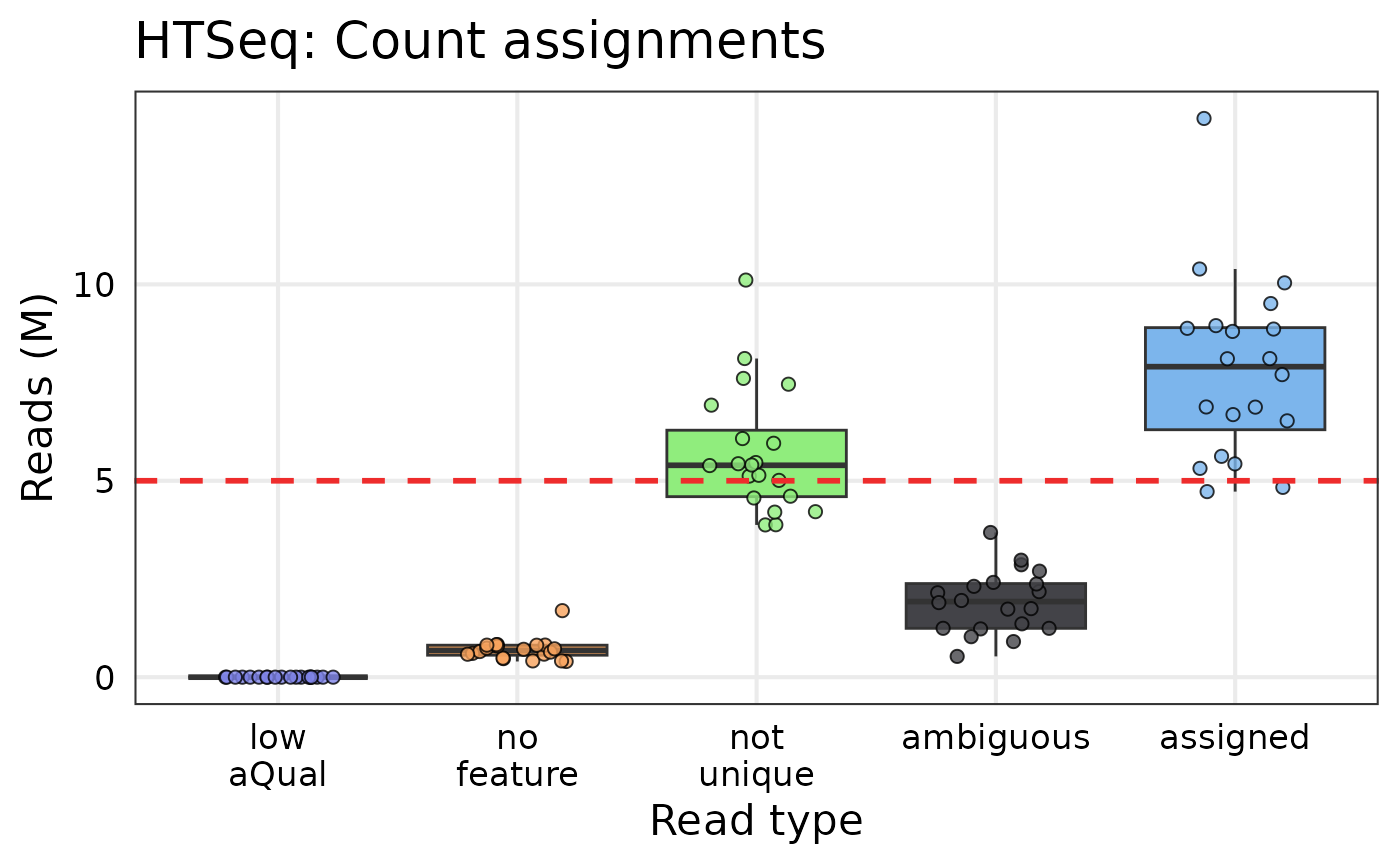
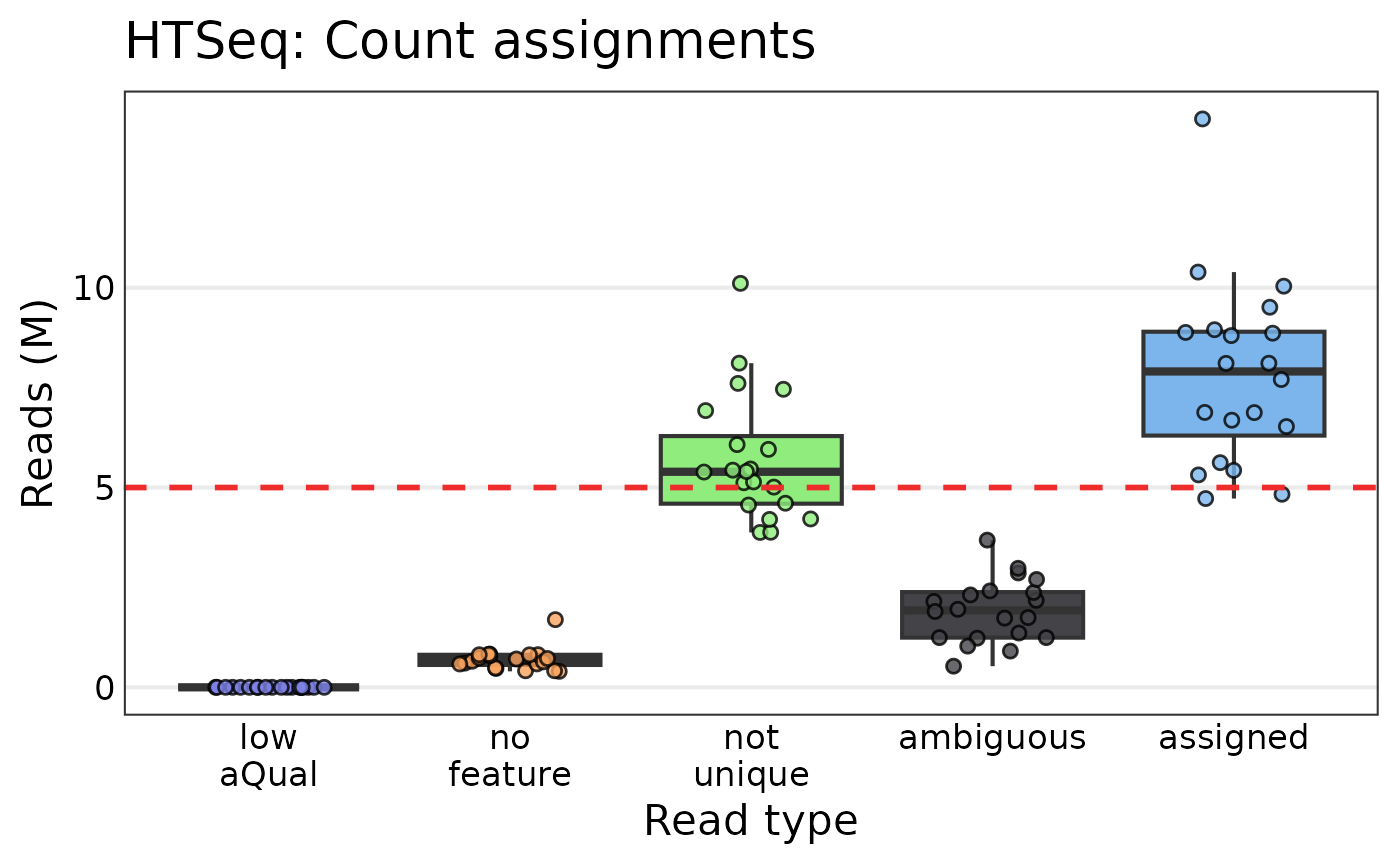
Deploying to gh-pages from @ travis-m-blimkie/tRavis@55f0370cd2f38c7c3973833efeeda2f34d24e0dc 🚀

diff --git a/articles/tRavis.html b/articles/tRavis.html
@@ -20,7 +20,7 @@
 
     <a class="navbar-brand me-2" href="../index.html">tRavis</a>
 
-    <small class="nav-text text-muted me-auto" data-bs-toggle="tooltip" data-bs-placement="bottom" title="">1.7.8</small>
+    <small class="nav-text text-muted me-auto" data-bs-toggle="tooltip" data-bs-placement="bottom" title="">1.7.11</small>
 
 
     <button class="navbar-toggler" type="button" data-bs-toggle="collapse" data-bs-target="#navbar" aria-controls="navbar" aria-expanded="false" aria-label="Toggle navigation">
@@ -55,7 +55,7 @@
 Blimkie</h4>
             
       
-      <small class="dont-index">Source: <a href="https://github.com/travis-m-blimkie/tRavis/blob/v1.7.8/vignettes/tRavis.Rmd" class="external-link"><code>vignettes/tRavis.Rmd</code></a></small>
+      <small class="dont-index">Source: <a href="https://github.com/travis-m-blimkie/tRavis/blob/master/vignettes/tRavis.Rmd" class="external-link"><code>vignettes/tRavis.Rmd</code></a></small>
       <div class="d-none name"><code>tRavis.Rmd</code></div>
     </div>
 
@@ -63,7 +63,7 @@ Blimkie</h4>
     
 <div class="sourceCode" id="cb1"><pre class="downlit sourceCode r">
 <code class="sourceCode R"><span><span class="kw"><a href="https://rdrr.io/r/base/library.html" class="external-link">library</a></span><span class="op">(</span><span class="va"><a href="https://travis-m-blimkie.github.io/tRavis/">tRavis</a></span><span class="op">)</span></span>
-<span><span class="co">#&gt; Thanks for using tRavis v1.7.8! If you encounter any bugs</span></span>
+<span><span class="co">#&gt; Thanks for using tRavis v1.7.11! If you encounter any bugs</span></span>
 <span><span class="co">#&gt; or problems, please submit an issue at the Github page:</span></span>
 <span><span class="co">#&gt; https://github.com/travis-m-blimkie/tRavis/issues</span></span></code></pre></div>
 <div class="section level2">
@@ -496,9 +496,9 @@ middle of a word. Useful for trimming long axis labels in a plot.</p>
 <div class="section level2">
 <h2 id="session-information">Session information<a class="anchor" aria-label="anchor" href="#session-information"></a>
 </h2>
-<pre><code><span><span class="co">#&gt; R version 4.5.0 (2025-04-11)</span></span>
+<pre><code><span><span class="co">#&gt; R version 4.5.1 (2025-06-13)</span></span>
 <span><span class="co">#&gt; Platform: x86_64-pc-linux-gnu</span></span>
-<span><span class="co">#&gt; Running under: Ubuntu 24.04.2 LTS</span></span>
+<span><span class="co">#&gt; Running under: Ubuntu 24.04.3 LTS</span></span>
 <span><span class="co">#&gt; </span></span>
 <span><span class="co">#&gt; Matrix products: default</span></span>
 <span><span class="co">#&gt; BLAS:   /usr/lib/x86_64-linux-gnu/openblas-pthread/libblas.so.3 </span></span>
@@ -517,52 +517,53 @@ middle of a word. Useful for trimming long axis labels in a plot.</p>
 <span><span class="co">#&gt; [1] stats     graphics  grDevices utils     datasets  methods   base     </span></span>
 <span><span class="co">#&gt; </span></span>
 <span><span class="co">#&gt; other attached packages:</span></span>
-<span><span class="co">#&gt; [1] ggplot2_3.5.2 tRavis_1.7.8 </span></span>
+<span><span class="co">#&gt; [1] ggplot2_4.0.0 tRavis_1.7.11</span></span>
 <span><span class="co">#&gt; </span></span>
 <span><span class="co">#&gt; loaded via a namespace (and not attached):</span></span>
 <span><span class="co">#&gt;  [1] SummarizedExperiment_1.38.1 gtable_0.3.6               </span></span>
-<span><span class="co">#&gt;  [3] xfun_0.52                   bslib_0.9.0                </span></span>
-<span><span class="co">#&gt;  [5] ggrepel_0.9.6               lattice_0.22-6             </span></span>
+<span><span class="co">#&gt;  [3] xfun_0.53                   bslib_0.9.0                </span></span>
+<span><span class="co">#&gt;  [5] ggrepel_0.9.6               lattice_0.22-7             </span></span>
 <span><span class="co">#&gt;  [7] Biobase_2.68.0              tzdb_0.5.0                 </span></span>
-<span><span class="co">#&gt;  [9] vctrs_0.6.5                 tools_4.5.0                </span></span>
-<span><span class="co">#&gt; [11] generics_0.1.4              stats4_4.5.0               </span></span>
-<span><span class="co">#&gt; [13] parallel_4.5.0              tibble_3.3.0               </span></span>
+<span><span class="co">#&gt;  [9] vctrs_0.6.5                 tools_4.5.1                </span></span>
+<span><span class="co">#&gt; [11] generics_0.1.4              stats4_4.5.1               </span></span>
+<span><span class="co">#&gt; [13] parallel_4.5.1              tibble_3.3.0               </span></span>
 <span><span class="co">#&gt; [15] pkgconfig_2.0.3             Matrix_1.7-3               </span></span>
-<span><span class="co">#&gt; [17] RColorBrewer_1.1-3          desc_1.4.3                 </span></span>
-<span><span class="co">#&gt; [19] S4Vectors_0.46.0            GenomeInfoDbData_1.2.14    </span></span>
-<span><span class="co">#&gt; [21] lifecycle_1.0.4             compiler_4.5.0             </span></span>
-<span><span class="co">#&gt; [23] farver_2.1.2                stringr_1.5.1              </span></span>
-<span><span class="co">#&gt; [25] textshaping_1.0.1           janitor_2.2.1              </span></span>
-<span><span class="co">#&gt; [27] DESeq2_1.48.1               codetools_0.2-20           </span></span>
-<span><span class="co">#&gt; [29] snakecase_0.11.1            GenomeInfoDb_1.44.0        </span></span>
-<span><span class="co">#&gt; [31] htmltools_0.5.8.1           sass_0.4.10                </span></span>
-<span><span class="co">#&gt; [33] yaml_2.3.10                 pillar_1.10.2              </span></span>
-<span><span class="co">#&gt; [35] pkgdown_2.1.3               crayon_1.5.3               </span></span>
-<span><span class="co">#&gt; [37] jquerylib_0.1.4             tidyr_1.3.1                </span></span>
-<span><span class="co">#&gt; [39] BiocParallel_1.42.1         DelayedArray_0.34.1        </span></span>
-<span><span class="co">#&gt; [41] cachem_1.1.0                abind_1.4-8                </span></span>
-<span><span class="co">#&gt; [43] locfit_1.5-9.12             tidyselect_1.2.1           </span></span>
-<span><span class="co">#&gt; [45] digest_0.6.37               stringi_1.8.7              </span></span>
-<span><span class="co">#&gt; [47] dplyr_1.1.4                 purrr_1.0.4                </span></span>
-<span><span class="co">#&gt; [49] labeling_0.4.3              forcats_1.0.0              </span></span>
-<span><span class="co">#&gt; [51] fastmap_1.2.0               grid_4.5.0                 </span></span>
-<span><span class="co">#&gt; [53] SparseArray_1.8.0           cli_3.6.5                  </span></span>
-<span><span class="co">#&gt; [55] magrittr_2.0.3              S4Arrays_1.8.1             </span></span>
-<span><span class="co">#&gt; [57] utf8_1.2.6                  readr_2.1.5                </span></span>
-<span><span class="co">#&gt; [59] withr_3.0.2                 UCSC.utils_1.4.0           </span></span>
-<span><span class="co">#&gt; [61] scales_1.4.0                bit64_4.6.0-1              </span></span>
-<span><span class="co">#&gt; [63] lubridate_1.9.4             timechange_0.3.0           </span></span>
-<span><span class="co">#&gt; [65] XVector_0.48.0              httr_1.4.7                 </span></span>
-<span><span class="co">#&gt; [67] rmarkdown_2.29              matrixStats_1.5.0          </span></span>
-<span><span class="co">#&gt; [69] bit_4.6.0                   ragg_1.4.0                 </span></span>
-<span><span class="co">#&gt; [71] hms_1.1.3                   evaluate_1.0.3             </span></span>
-<span><span class="co">#&gt; [73] knitr_1.50                  GenomicRanges_1.60.0       </span></span>
-<span><span class="co">#&gt; [75] IRanges_2.42.0              rlang_1.1.6                </span></span>
-<span><span class="co">#&gt; [77] Rcpp_1.0.14                 glue_1.8.0                 </span></span>
-<span><span class="co">#&gt; [79] BiocGenerics_0.54.0         vroom_1.6.5                </span></span>
-<span><span class="co">#&gt; [81] jsonlite_2.0.0              R6_2.6.1                   </span></span>
-<span><span class="co">#&gt; [83] plyr_1.8.9                  MatrixGenerics_1.20.0      </span></span>
-<span><span class="co">#&gt; [85] systemfonts_1.2.3           fs_1.6.6</span></span></code></pre>
+<span><span class="co">#&gt; [17] RColorBrewer_1.1-3          S7_0.2.0                   </span></span>
+<span><span class="co">#&gt; [19] desc_1.4.3                  S4Vectors_0.46.0           </span></span>
+<span><span class="co">#&gt; [21] GenomeInfoDbData_1.2.14     lifecycle_1.0.4            </span></span>
+<span><span class="co">#&gt; [23] compiler_4.5.1              farver_2.1.2               </span></span>
+<span><span class="co">#&gt; [25] stringr_1.5.2               textshaping_1.0.3          </span></span>
+<span><span class="co">#&gt; [27] janitor_2.2.1               DESeq2_1.48.2              </span></span>
+<span><span class="co">#&gt; [29] codetools_0.2-20            snakecase_0.11.1           </span></span>
+<span><span class="co">#&gt; [31] GenomeInfoDb_1.44.3         htmltools_0.5.8.1          </span></span>
+<span><span class="co">#&gt; [33] sass_0.4.10                 yaml_2.3.10                </span></span>
+<span><span class="co">#&gt; [35] pillar_1.11.1               pkgdown_2.1.3              </span></span>
+<span><span class="co">#&gt; [37] crayon_1.5.3                jquerylib_0.1.4            </span></span>
+<span><span class="co">#&gt; [39] tidyr_1.3.1                 BiocParallel_1.42.2        </span></span>
+<span><span class="co">#&gt; [41] DelayedArray_0.34.1         cachem_1.1.0               </span></span>
+<span><span class="co">#&gt; [43] abind_1.4-8                 locfit_1.5-9.12            </span></span>
+<span><span class="co">#&gt; [45] tidyselect_1.2.1            digest_0.6.37              </span></span>
+<span><span class="co">#&gt; [47] stringi_1.8.7               dplyr_1.1.4                </span></span>
+<span><span class="co">#&gt; [49] purrr_1.1.0                 labeling_0.4.3             </span></span>
+<span><span class="co">#&gt; [51] forcats_1.0.0               fastmap_1.2.0              </span></span>
+<span><span class="co">#&gt; [53] grid_4.5.1                  SparseArray_1.8.1          </span></span>
+<span><span class="co">#&gt; [55] cli_3.6.5                   magrittr_2.0.4             </span></span>
+<span><span class="co">#&gt; [57] S4Arrays_1.8.1              utf8_1.2.6                 </span></span>
+<span><span class="co">#&gt; [59] readr_2.1.5                 withr_3.0.2                </span></span>
+<span><span class="co">#&gt; [61] UCSC.utils_1.4.0            scales_1.4.0               </span></span>
+<span><span class="co">#&gt; [63] bit64_4.6.0-1               lubridate_1.9.4            </span></span>
+<span><span class="co">#&gt; [65] timechange_0.3.0            XVector_0.48.0             </span></span>
+<span><span class="co">#&gt; [67] httr_1.4.7                  rmarkdown_2.29             </span></span>
+<span><span class="co">#&gt; [69] matrixStats_1.5.0           bit_4.6.0                  </span></span>
+<span><span class="co">#&gt; [71] ragg_1.5.0                  hms_1.1.3                  </span></span>
+<span><span class="co">#&gt; [73] evaluate_1.0.5              knitr_1.50                 </span></span>
+<span><span class="co">#&gt; [75] GenomicRanges_1.60.0        IRanges_2.42.0             </span></span>
+<span><span class="co">#&gt; [77] rlang_1.1.6                 Rcpp_1.1.0                 </span></span>
+<span><span class="co">#&gt; [79] glue_1.8.0                  BiocGenerics_0.54.0        </span></span>
+<span><span class="co">#&gt; [81] vroom_1.6.6                 jsonlite_2.0.0             </span></span>
+<span><span class="co">#&gt; [83] R6_2.6.1                    plyr_1.8.9                 </span></span>
+<span><span class="co">#&gt; [85] MatrixGenerics_1.20.0       systemfonts_1.2.3          </span></span>
+<span><span class="co">#&gt; [87] fs_1.6.6</span></span></code></pre>
 </div>
   </main><aside class="col-md-3"><nav id="toc" aria-label="Table of contents"><h2>On this page</h2>
     </nav></aside>

diff --git a/reference/tr_qc_plots.html b/reference/tr_qc_plots.html
@@ -11,7 +11,7 @@ and Phred scores), STAR, and HTSeq. See Details for more information."></head><b
 
     <a class="navbar-brand me-2" href="../index.html">tRavis</a>
 
-    <small class="nav-text text-muted me-auto" data-bs-toggle="tooltip" data-bs-placement="bottom" title="">1.7.8</small>
+    <small class="nav-text text-muted me-auto" data-bs-toggle="tooltip" data-bs-placement="bottom" title="">1.7.11</small>
 
 
     <button class="navbar-toggler" type="button" data-bs-toggle="collapse" data-bs-target="#navbar" aria-controls="navbar" aria-expanded="false" aria-label="Toggle navigation">
@@ -33,7 +33,7 @@ and Phred scores), STAR, and HTSeq. See Details for more information."></head><b
   <main id="main" class="col-md-9"><div class="page-header">
 
       <h1>Create ggplot2 figures from MultiQC results</h1>
-      <small class="dont-index">Source: <a href="https://github.com/travis-m-blimkie/tRavis/blob/v1.7.8/R/tr_qc_plots.R" class="external-link"><code>R/tr_qc_plots.R</code></a></small>
+      <small class="dont-index">Source: <a href="https://github.com/travis-m-blimkie/tRavis/blob/master/R/tr_qc_plots.R" class="external-link"><code>R/tr_qc_plots.R</code></a></small>
       <div class="d-none name"><code>tr_qc_plots.Rd</code></div>
     </div>
 
@@ -56,8 +56,7 @@ and Phred scores), STAR, and HTSeq. See Details for more information.</p>
 <span>  threshold_line_type <span class="op">=</span> <span class="st">"dashed"</span>,</span>
 <span>  threshold_line_size <span class="op">=</span> <span class="fl">1</span>,</span>
 <span>  limits <span class="op">=</span> <span class="cn">NULL</span>,</span>
-<span>  font_size <span class="op">=</span> <span class="fl">18</span>,</span>
-<span>  show_grid <span class="op">=</span> <span class="st">"all"</span></span>
+<span>  font_size <span class="op">=</span> <span class="fl">14</span></span>
 <span><span class="op">)</span></span></code></pre></div>
     </div>
 
@@ -117,11 +116,6 @@ sets automatic limits.</p></dd>
 
 <dt id="arg-font-size">font_size<a class="anchor" aria-label="anchor" href="#arg-font-size"></a></dt>
 <dd><p>Base font size (defaults to 18)</p></dd>
-
-
-<dt id="arg-show-grid">show_grid<a class="anchor" aria-label="anchor" href="#arg-show-grid"></a></dt>
-<dd><p>Should a grid be drawn on all plots? Defaults to "all", can
-also be "x", "y", or "none".</p></dd>
 
 </dl></div>
     <div class="section level2">

diff --git a/authors.html b/authors.html
@@ -7,7 +7,7 @@
 
     <a class="navbar-brand me-2" href="index.html">tRavis</a>
 
-    <small class="nav-text text-muted me-auto" data-bs-toggle="tooltip" data-bs-placement="bottom" title="">1.7.8</small>
+    <small class="nav-text text-muted me-auto" data-bs-toggle="tooltip" data-bs-placement="bottom" title="">1.7.11</small>
 
 
     <button class="navbar-toggler" type="button" data-bs-toggle="collapse" data-bs-target="#navbar" aria-controls="navbar" aria-expanded="false" aria-label="Toggle navigation">
@@ -42,17 +42,17 @@
 
     <div class="section level2">
       <h2 id="citation">Citation</h2>
-      <p><small class="dont-index">Source: <a href="https://github.com/travis-m-blimkie/tRavis/blob/v1.7.8/DESCRIPTION" class="external-link"><code>DESCRIPTION</code></a></small></p>
+      <p><small class="dont-index">Source: <a href="https://github.com/travis-m-blimkie/tRavis/blob/master/DESCRIPTION" class="external-link"><code>DESCRIPTION</code></a></small></p>
 
       <p>Blimkie T (2025).
 <em>tRavis: tRavis: an R package by Travis Blimkie</em>.
-R package version 1.7.8, <a href="https://travis-m-blimkie.github.io/tRavis/">https://travis-m-blimkie.github.io/tRavis/</a>.
+R package version 1.7.11, <a href="https://travis-m-blimkie.github.io/tRavis/">https://travis-m-blimkie.github.io/tRavis/</a>.
 </p>
       <pre>@Manual{,
   title = {tRavis: tRavis: an R package by Travis Blimkie},
   author = {Travis Blimkie},
   year = {2025},
-  note = {R package version 1.7.8},
+  note = {R package version 1.7.11},
   url = {https://travis-m-blimkie.github.io/tRavis/},
 }</pre>
     </div>

diff --git a/reference/tr_test_enrichment.html b/reference/tr_test_enrichment.html
@@ -11,7 +11,7 @@ Uses alternative = &quot;greater&quot; in the call to fisher.test()."></head><bo
 
     <a class="navbar-brand me-2" href="../index.html">tRavis</a>
 
-    <small class="nav-text text-muted me-auto" data-bs-toggle="tooltip" data-bs-placement="bottom" title="">1.7.8</small>
+    <small class="nav-text text-muted me-auto" data-bs-toggle="tooltip" data-bs-placement="bottom" title="">1.7.11</small>
 
 
     <button class="navbar-toggler" type="button" data-bs-toggle="collapse" data-bs-target="#navbar" aria-controls="navbar" aria-expanded="false" aria-label="Toggle navigation">
@@ -33,7 +33,7 @@ Uses alternative = &quot;greater&quot; in the call to fisher.test()."></head><bo
   <main id="main" class="col-md-9"><div class="page-header">
 
       <h1>Perform a basic enrichment test</h1>
-      <small class="dont-index">Source: <a href="https://github.com/travis-m-blimkie/tRavis/blob/v1.7.8/R/tr_test_enrichment.R" class="external-link"><code>R/tr_test_enrichment.R</code></a></small>
+      <small class="dont-index">Source: <a href="https://github.com/travis-m-blimkie/tRavis/blob/master/R/tr_test_enrichment.R" class="external-link"><code>R/tr_test_enrichment.R</code></a></small>
       <div class="d-none name"><code>tr_test_enrichment.Rd</code></div>
     </div>
 

diff --git a/reference/get_rounded_max.html b/reference/get_rounded_max.html
@@ -11,7 +11,7 @@ largest read or count value, then round it up to the nearest ten million."></hea
 
     <a class="navbar-brand me-2" href="../index.html">tRavis</a>
 
-    <small class="nav-text text-muted me-auto" data-bs-toggle="tooltip" data-bs-placement="bottom" title="">1.7.8</small>
+    <small class="nav-text text-muted me-auto" data-bs-toggle="tooltip" data-bs-placement="bottom" title="">1.7.11</small>
 
 
     <button class="navbar-toggler" type="button" data-bs-toggle="collapse" data-bs-target="#navbar" aria-controls="navbar" aria-expanded="false" aria-label="Toggle navigation">
@@ -33,7 +33,7 @@ largest read or count value, then round it up to the nearest ten million."></hea
   <main id="main" class="col-md-9"><div class="page-header">
 
       <h1>Find highest number of reads in a long table</h1>
-      <small class="dont-index">Source: <a href="https://github.com/travis-m-blimkie/tRavis/blob/v1.7.8/R/get_rounded_max.R" class="external-link"><code>R/get_rounded_max.R</code></a></small>
+      <small class="dont-index">Source: <a href="https://github.com/travis-m-blimkie/tRavis/blob/master/R/get_rounded_max.R" class="external-link"><code>R/get_rounded_max.R</code></a></small>
       <div class="d-none name"><code>get_rounded_max.Rd</code></div>
     </div>
 

diff --git a/reference/tr_sort_alphanum.html b/reference/tr_sort_alphanum.html
@@ -11,7 +11,7 @@ pipes, and you can provide column name or index as argument sort_col.'></head><b
 
     <a class="navbar-brand me-2" href="../index.html">tRavis</a>
 
-    <small class="nav-text text-muted me-auto" data-bs-toggle="tooltip" data-bs-placement="bottom" title="">1.7.8</small>
+    <small class="nav-text text-muted me-auto" data-bs-toggle="tooltip" data-bs-placement="bottom" title="">1.7.11</small>
 
 
     <button class="navbar-toggler" type="button" data-bs-toggle="collapse" data-bs-target="#navbar" aria-controls="navbar" aria-expanded="false" aria-label="Toggle navigation">
@@ -33,7 +33,7 @@ pipes, and you can provide column name or index as argument sort_col.'></head><b
   <main id="main" class="col-md-9"><div class="page-header">
 
       <h1>Properly sort alphanumeric strings</h1>
-      <small class="dont-index">Source: <a href="https://github.com/travis-m-blimkie/tRavis/blob/v1.7.8/R/tr_sort_alphanum.R" class="external-link"><code>R/tr_sort_alphanum.R</code></a></small>
+      <small class="dont-index">Source: <a href="https://github.com/travis-m-blimkie/tRavis/blob/master/R/tr_sort_alphanum.R" class="external-link"><code>R/tr_sort_alphanum.R</code></a></small>
       <div class="d-none name"><code>tr_sort_alphanum.Rd</code></div>
     </div>
 

diff --git a/reference/tr_tidy_gage.html b/reference/tr_tidy_gage.html
@@ -11,7 +11,7 @@ also filter the result based on q value, with a default of 0.1."></head><body>
 
     <a class="navbar-brand me-2" href="../index.html">tRavis</a>
 
-    <small class="nav-text text-muted me-auto" data-bs-toggle="tooltip" data-bs-placement="bottom" title="">1.7.8</small>
+    <small class="nav-text text-muted me-auto" data-bs-toggle="tooltip" data-bs-placement="bottom" title="">1.7.11</small>
 
 
     <button class="navbar-toggler" type="button" data-bs-toggle="collapse" data-bs-target="#navbar" aria-controls="navbar" aria-expanded="false" aria-label="Toggle navigation">
@@ -33,7 +33,7 @@ also filter the result based on q value, with a default of 0.1."></head><body>
   <main id="main" class="col-md-9"><div class="page-header">
 
       <h1>Coerce Gage output to a tidy data frame</h1>
-      <small class="dont-index">Source: <a href="https://github.com/travis-m-blimkie/tRavis/blob/v1.7.8/R/tr_tidy_gage.R" class="external-link"><code>R/tr_tidy_gage.R</code></a></small>
+      <small class="dont-index">Source: <a href="https://github.com/travis-m-blimkie/tRavis/blob/master/R/tr_tidy_gage.R" class="external-link"><code>R/tr_tidy_gage.R</code></a></small>
       <div class="d-none name"><code>tr_tidy_gage.Rd</code></div>
     </div>
 

diff --git a/reference/tr_clean_deseq2_result.html b/reference/tr_clean_deseq2_result.html
@@ -9,7 +9,7 @@ in identifying differentially expressed genes."></head><body>
 
     <a class="navbar-brand me-2" href="../index.html">tRavis</a>
 
-    <small class="nav-text text-muted me-auto" data-bs-toggle="tooltip" data-bs-placement="bottom" title="">1.7.8</small>
+    <small class="nav-text text-muted me-auto" data-bs-toggle="tooltip" data-bs-placement="bottom" title="">1.7.11</small>
 
 
     <button class="navbar-toggler" type="button" data-bs-toggle="collapse" data-bs-target="#navbar" aria-controls="navbar" aria-expanded="false" aria-label="Toggle navigation">
@@ -31,7 +31,7 @@ in identifying differentially expressed genes."></head><body>
   <main id="main" class="col-md-9"><div class="page-header">
 
       <h1>Tidy results from DESeq2</h1>
-      <small class="dont-index">Source: <a href="https://github.com/travis-m-blimkie/tRavis/blob/v1.7.8/R/tr_clean_deseq2_result.R" class="external-link"><code>R/tr_clean_deseq2_result.R</code></a></small>
+      <small class="dont-index">Source: <a href="https://github.com/travis-m-blimkie/tRavis/blob/master/R/tr_clean_deseq2_result.R" class="external-link"><code>R/tr_clean_deseq2_result.R</code></a></small>
       <div class="d-none name"><code>tr_clean_deseq2_result.Rd</code></div>
     </div>
 

diff --git a/reference/tr_trunc_neatly.html b/reference/tr_trunc_neatly.html
@@ -9,7 +9,7 @@ ellipsis to the end, without splitting in the middle of a word."></head><body>
 
     <a class="navbar-brand me-2" href="../index.html">tRavis</a>
 
-    <small class="nav-text text-muted me-auto" data-bs-toggle="tooltip" data-bs-placement="bottom" title="">1.7.8</small>
+    <small class="nav-text text-muted me-auto" data-bs-toggle="tooltip" data-bs-placement="bottom" title="">1.7.11</small>
 
 
     <button class="navbar-toggler" type="button" data-bs-toggle="collapse" data-bs-target="#navbar" aria-controls="navbar" aria-expanded="false" aria-label="Toggle navigation">
@@ -31,7 +31,7 @@ ellipsis to the end, without splitting in the middle of a word."></head><body>
   <main id="main" class="col-md-9"><div class="page-header">
 
       <h1>Cleanly trim long strings</h1>
-      <small class="dont-index">Source: <a href="https://github.com/travis-m-blimkie/tRavis/blob/v1.7.8/R/tr_trunc_neatly.R" class="external-link"><code>R/tr_trunc_neatly.R</code></a></small>
+      <small class="dont-index">Source: <a href="https://github.com/travis-m-blimkie/tRavis/blob/master/R/tr_trunc_neatly.R" class="external-link"><code>R/tr_trunc_neatly.R</code></a></small>
       <div class="d-none name"><code>tr_trunc_neatly.Rd</code></div>
     </div>
 

diff --git a/reference/tr_anno_cleaner.html b/reference/tr_anno_cleaner.html
@@ -17,7 +17,7 @@ missing gene names with the corresponding locus tag.'></head><body>
 
     <a class="navbar-brand me-2" href="../index.html">tRavis</a>
 
-    <small class="nav-text text-muted me-auto" data-bs-toggle="tooltip" data-bs-placement="bottom" title="">1.7.8</small>
+    <small class="nav-text text-muted me-auto" data-bs-toggle="tooltip" data-bs-placement="bottom" title="">1.7.11</small>
 
 
     <button class="navbar-toggler" type="button" data-bs-toggle="collapse" data-bs-target="#navbar" aria-controls="navbar" aria-expanded="false" aria-label="Toggle navigation">
@@ -39,7 +39,7 @@ missing gene names with the corresponding locus tag.'></head><body>
   <main id="main" class="col-md-9"><div class="page-header">
 
       <h1>Clean annotations from pseudomonas.com</h1>
-      <small class="dont-index">Source: <a href="https://github.com/travis-m-blimkie/tRavis/blob/v1.7.8/R/tr_anno_cleaner.R" class="external-link"><code>R/tr_anno_cleaner.R</code></a></small>
+      <small class="dont-index">Source: <a href="https://github.com/travis-m-blimkie/tRavis/blob/master/R/tr_anno_cleaner.R" class="external-link"><code>R/tr_anno_cleaner.R</code></a></small>
       <div class="d-none name"><code>tr_anno_cleaner.Rd</code></div>
     </div>
 

diff --git a/reference/tr_compare_lists.html b/reference/tr_compare_lists.html
@@ -11,7 +11,7 @@ setdiff(y, x). Returns these elements in a list with names "common",
 
     <a class="navbar-brand me-2" href="../index.html">tRavis</a>
 
-    <small class="nav-text text-muted me-auto" data-bs-toggle="tooltip" data-bs-placement="bottom" title="">1.7.8</small>
+    <small class="nav-text text-muted me-auto" data-bs-toggle="tooltip" data-bs-placement="bottom" title="">1.7.11</small>
 
 
     <button class="navbar-toggler" type="button" data-bs-toggle="collapse" data-bs-target="#navbar" aria-controls="navbar" aria-expanded="false" aria-label="Toggle navigation">
@@ -33,7 +33,7 @@ setdiff(y, x). Returns these elements in a list with names "common",
   <main id="main" class="col-md-9"><div class="page-header">
 
       <h1>Easily compare two lists</h1>
-      <small class="dont-index">Source: <a href="https://github.com/travis-m-blimkie/tRavis/blob/v1.7.8/R/tr_compare_lists.R" class="external-link"><code>R/tr_compare_lists.R</code></a></small>
+      <small class="dont-index">Source: <a href="https://github.com/travis-m-blimkie/tRavis/blob/master/R/tr_compare_lists.R" class="external-link"><code>R/tr_compare_lists.R</code></a></small>
       <div class="d-none name"><code>tr_compare_lists.Rd</code></div>
     </div>
 

diff --git a/reference/tr_get_files.html b/reference/tr_get_files.html
@@ -15,7 +15,7 @@ data frames."></head><body>
 
     <a class="navbar-brand me-2" href="../index.html">tRavis</a>
 
-    <small class="nav-text text-muted me-auto" data-bs-toggle="tooltip" data-bs-placement="bottom" title="">1.7.8</small>
+    <small class="nav-text text-muted me-auto" data-bs-toggle="tooltip" data-bs-placement="bottom" title="">1.7.11</small>
 
 
     <button class="navbar-toggler" type="button" data-bs-toggle="collapse" data-bs-target="#navbar" aria-controls="navbar" aria-expanded="false" aria-label="Toggle navigation">
@@ -37,7 +37,7 @@ data frames."></head><body>
   <main id="main" class="col-md-9"><div class="page-header">
 
       <h1>Create a named list of files</h1>
-      <small class="dont-index">Source: <a href="https://github.com/travis-m-blimkie/tRavis/blob/v1.7.8/R/tr_get_files.R" class="external-link"><code>R/tr_get_files.R</code></a></small>
+      <small class="dont-index">Source: <a href="https://github.com/travis-m-blimkie/tRavis/blob/master/R/tr_get_files.R" class="external-link"><code>R/tr_get_files.R</code></a></small>
       <div class="d-none name"><code>tr_get_files.Rd</code></div>
     </div>
 
